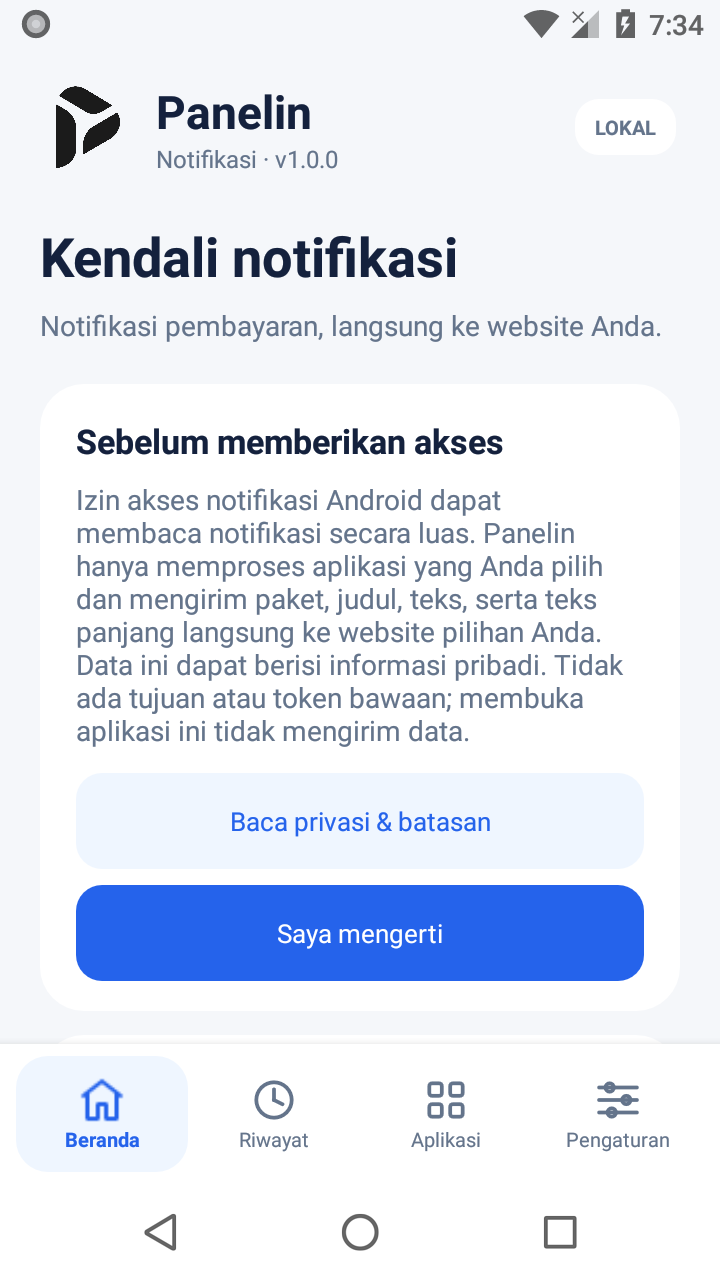
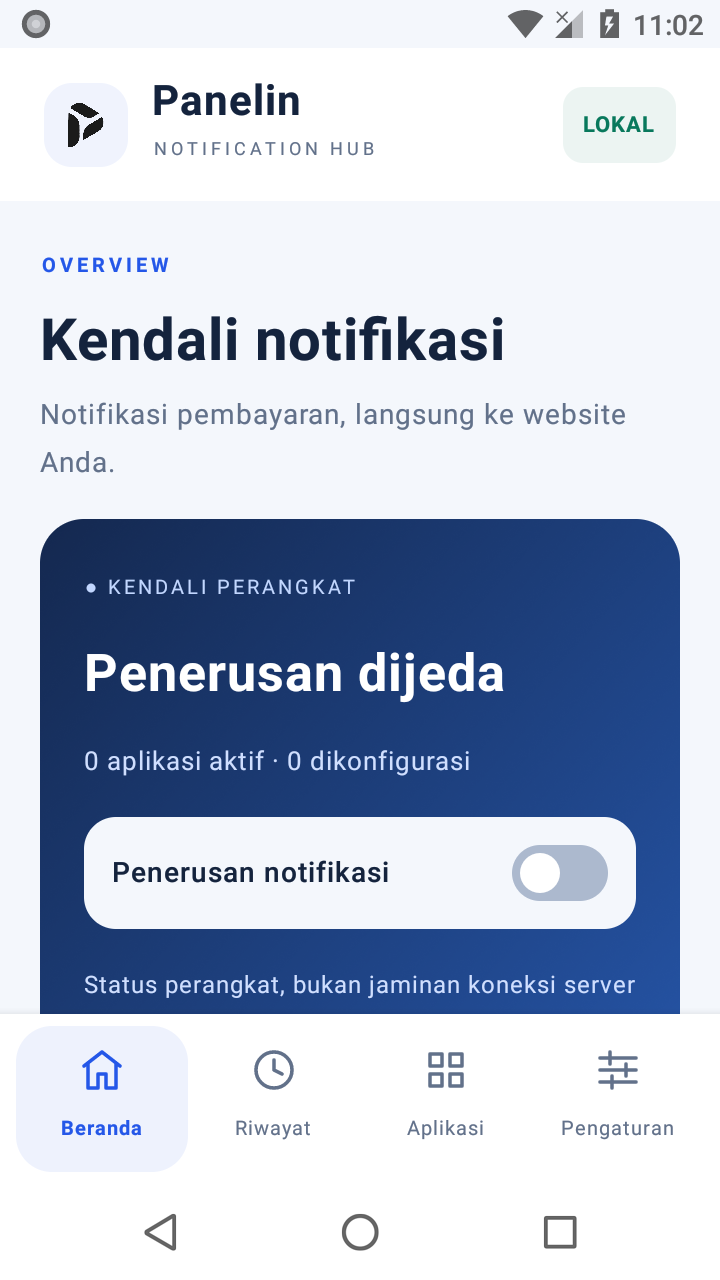
docs(android): siapkan distribusi rilis v1.2.0

diff --git a/README.md b/README.md
@@ -4,13 +4,13 @@ Aplikasi Android pendamping untuk pemilik/admin website **Panelin**. Teruskan no
 
 **Dipasang pada HP pemilik website, bukan HP pelanggan yang melakukan deposit.** Setiap client mengatur aplikasi sumber, URL, dan token sendiri. Tidak ada endpoint bawaan, server perantara Panelin, iklan, atau telemetri terpusat.
 
-Kandidat lokal v1.2.0 menggunakan Jetpack Compose; belum dipublikasikan. Tautan dan screenshot rilis publik di bawah masih v1.0.1.
+v1.2.0 menggunakan Jetpack Compose, dengan komponen interaktif tanpa JavaScript atau WebView. Status rilis tetap **uji terbatas**; Android 15/HP fisik belum terverifikasi.
 
 ## Unduh aplikasi
 
-**[Unduh APK v1.0.1 — uji terbatas](https://github.com/herusuandana/panelin-notifikasi/releases/tag/v1.0.1)**
+**[Unduh APK v1.2.0 — uji terbatas](https://github.com/herusuandana/panelin-notifikasi/releases/tag/v1.2.0)**
 
-Pada bagian **Assets**, pilih `panelin-notifikasi-1.0.1-release.apk`. File `.sha256` tersedia untuk pemeriksaan integritas. Jangan memilih **Source code** jika hanya ingin memasang aplikasi.
+Pada bagian **Assets**, pilih `panelin-notifikasi-1.2.0-release.apk`. File `.sha256` tersedia untuk pemeriksaan integritas. Jangan memilih **Source code** jika hanya ingin memasang aplikasi.
 
 - Minimum **Android 8.0**; package `id.panelin.notifikasi`.
 - APK ditandatangani dengan sertifikat release tetap, bukan debug key.
@@ -39,7 +39,7 @@ Jika v1.0.0 langsung tertutup saat dibuka pada Android 15, v1.0.1 memperbaiki sa
 1. Unduh APK dari tautan rilis di atas dan izinkan pemasangan dari sumber tersebut bila Android memintanya.
 2. Buka aplikasi dan baca penjelasan privasi. Pada Android tertentu, aplikasi hasil sideload perlu **Allow restricted settings / Izinkan setelan terbatas** di info aplikasi sebelum akses notifikasi dapat diaktifkan. Nama menu tergantung perangkat; aplikasi tidak melewati pembatasan Android.
 3. Di website Panelin Anda, buka metode pembayaran Manual yang mendukung konfirmasi notifikasi. Aktifkan fiturnya, lalu salin URL callback dan token penerima.
-4. Pada tab **Aplikasi**, pilih sumber pembayaran yang benar, tekan **Atur penerusan**, isi URL HTTPS serta token, dan berikan persetujuan. Format URL: `https://DOMAIN-ANDA/callback/notification/ID_METODE`, dengan ID numerik.
+4. Pada tab **Aplikasi**, pilih sumber pembayaran yang benar, tekan **Hubungkan aplikasi** atau **Kelola tujuan**, isi URL HTTPS serta token, dan berikan persetujuan. Format URL: `https://DOMAIN-ANDA/callback/notification/ID_METODE`, dengan ID numerik.
 5. Melalui **Beranda**, berikan akses notifikasi di pengaturan Android, izinkan notifikasi status, dan aktifkan penerusan. Tinjau baterai/autostart sesuai merek HP.
 6. Sebelum penggunaan operasional, ikuti [checklist uji perangkat](TESTING.md). Untuk pembayaran nyata yang disetujui client, cocokkan hasil di Riwayat dengan invoice, mutasi dompet, dan saldo website.
 

diff --git a/QA-RESULTS.md b/QA-RESULTS.md
@@ -1,6 +1,6 @@
 # Hasil pengujian
 
-## v1.2.0 — Jetpack Compose (versionCode 4, kandidat uji lokal)
+## v1.2.0 — Jetpack Compose (versionCode 4, uji terbatas)
 
 - Build signed/debug/instrumentation berhasil pada iterasi migrasi; sertifikat sama. Lima unit test lulus; lint 0 error, 23 warning.
 - Runtime API 26 awal: StartupTest (1), ComponentTest (2), RedesignTest (1) lulus. ResponsiveTest gagal karena pencarian item LazyColumn yang belum terkomposisi; tes diperbaiki memakai scroll-to-node dan pengulangan kemudian lulus.

diff --git a/CHANGELOG.md b/CHANGELOG.md
@@ -4,7 +4,7 @@ APK resmi dan checksum tersedia di [GitHub Releases](https://github.com/herusuan
 
 ## 1.2.0 — 2026-10-27
 
-**versionCode: 4 · Status: kandidat uji lokal — Jetpack Compose**
+**versionCode: 4 · Status: uji terbatas — Jetpack Compose**
 
 - Mengganti UI Android Views manual dengan Jetpack Compose; tanpa JavaScript atau WebView.
 - Empat halaman reaktif, animasi navigasi/toggle, bottom sheet, ikon custom, pencarian aplikasi, dan rail untuk layar lebar.
